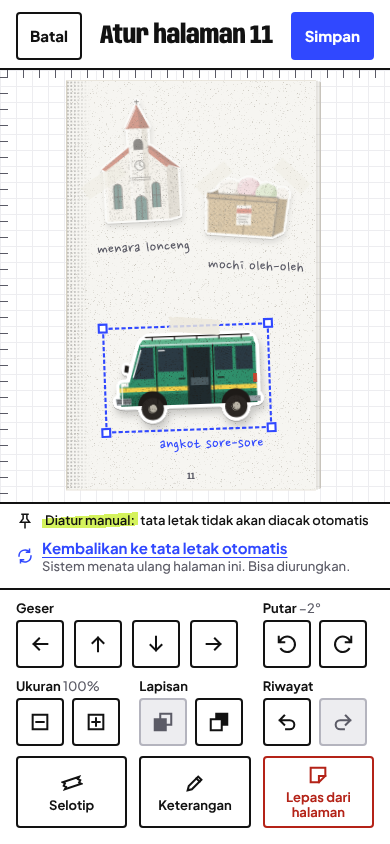
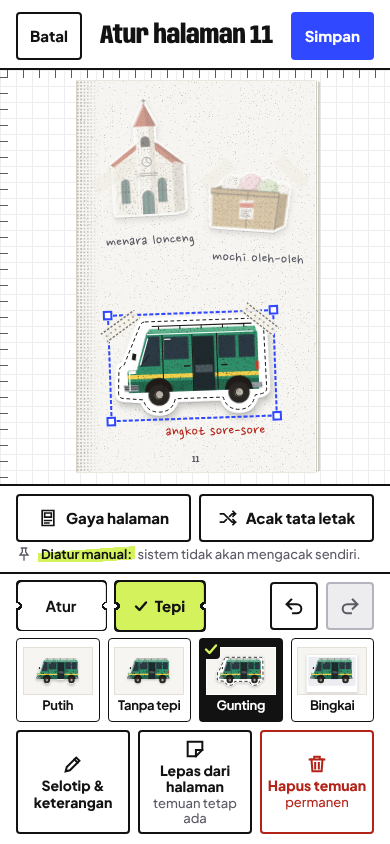
Mockup v5 editor diperbarui dari 3 riset; Q-022 cakupan opsi editor
Claude-Session: https://claude.ai/code/session_01RwujPoypsKpkKnPt9b6a3g

Changed region(s): [[0.0, 0.0924, 1.0, 1.0], [0.2462, 0.1232, 0.4923, 0.3081], [0.0, 0.5545, 0.0308, 0.5853]]

diff --git a/docs/pertanyaan.md b/docs/pertanyaan.md
@@ -14,6 +14,7 @@
 | Q-019 | Warna untuk 4 kategori yang belum punya warna (Minuman, Hewan, Barang, Lainnya)? Usulan v5: `#5ED1E0`, `#C7A6FF`, `#E0C39A`, `#D6D6DC` (tinta di atasnya 9,2–13,0:1). Karena warna kategori < 3:1 terhadap putih, label kategori wajib bergaris tinta dan selalu ikon + teks | `data/categories.json` punya 9 kategori (K-020), sistem v4 baru mewarnai 5 | K-020, Q-017 |
 | Q-020 | Batas atur manual stiker di editor halaman dan kolom baru `Placement`? Usulan mockup v5: putar 2° per ketukan dengan batas ±15° (±4° tetap untuk tata letak otomatis), ukuran 60–150% dari slot template, geser 4 dp per ketukan dengan minimal 50% stiker di dalam halaman, urungkan minimal 20 langkah sampai Simpan; kolom baru `tapeStyle` (`none`/`oneCorner`/`twoCorners`/`top`) dan `noteInk` (`cobalt`/`ink`); "Lepas dari halaman" menghapus `Placement`, `Finding` tetap (ke mana temuan itu tampil belum diputuskan) | Editor halaman (K-005) butuh batas agar halaman tetap rapi; kolom baru menyentuh glosarium (K-014) dan skema drift/Supabase | K-005, K-014 |
 | Q-021 | Isi `Book.cover` untuk MVP? Usulan mockup v5: `templateId` (4 template: Kobalt, Tinta, Kliping, Karcis), judul maksimal 24 karakter dengan aturan perkecil/turun baris per template, dan maksimal 3 stiker berurutan (urutan pilih = posisi). Editor sampul lanjutan (geser bebas) tetap ditunda (spesifikasi §8) | Spesifikasi §4.5 hanya menyebut "template + nama + stiker"; `templateId` belum ada di glosarium | Spesifikasi §4.5, §8, K-014 |
+| Q-022 | Opsi editor v5 hasil riset 18 Nov (mana yang masuk MVP)? (a) **Sampul**: 8 template (Kobalt, Koran, Jendela, Peta trayek, Perangko, Tinta, Kliping, Karcis) dengan jumlah stiker 1–3 per template, dan **set hiasan** buatan sendiri (Karcis, Pos, Coretan; 12 hiasan) yang posisinya diatur template, di luar spesifikasi §4.5. (b) **Halaman**: 4 tepi stiker (putih, tanpa, gunting, bingkai), 6 tinta keterangan (Tinta, Kobalt, Sepia `#6B4226`, Merah cap `#B42318`, Magenta `#C2185B`, Hijau `#276B4A`), 6 motif selotip, 4 kertas latar, 6 gaya halaman siap pakai, tombol Acak tata letak (hanya dipicu pengguna, halaman tetap `isManuallyArranged`, bisa diurungkan; perlu tafsiran K-005). (c) "Hapus temuan" permanen termasuk cutout di cloud, terpisah dari "Lepas dari halaman". (d) **Rapikan potongan**: mode Kuas (wajib), Gunting poligon (bagus), Tepi dengan gaya Tanpa/Die-cut (wajib), Guntingan (bagus), Zigzag/Sobek (nanti); gaya tepi bawaan belum dipilih (Die-cut atau Guntingan). Istilah baru untuk glosarium: tepi stiker `edgeStyle`/`edgeWidth`, motif selotip, tinta keterangan, kertas latar, gaya halaman, stiker hiasan, `templateId` | Menentukan cakupan MVP editor dan skema data `Placement`/`Book.cover`; menyentuh K-005, K-014, K-024/K-030 (hiasan buatan sendiri, dicatat seperti suara), spesifikasi §4.3, §4.5, §8 | K-005, K-014, Q-020, Q-021 |
 
 ## Terjawab
 

diff --git a/docs/desain/usulan-v5-karcis-kliping.md b/docs/desain/usulan-v5-karcis-kliping.md
@@ -1,7 +1,7 @@
 # Laporan desainer-visual: bedah v4 "Pop Kota" dan spesifikasi v5 "Karcis & Kliping"
 
 > Ditulis: 18 Nov 2026 · Agen: `desainer-visual` · Status isi: **usulan** untuk Q-017. Tidak ada file repo yang diubah.
-> Lampiran di `docs/desain/usulan-v5/`: `gereja.svg` (contoh gaya stiker), `cap.svg` (stempel kota), `kontras.py` (hitung kontras), `spesimen.png` dan `uji-gereja.png`, serta screenshot 26 layar v5 (`V5*.png`). Mockup hidup: https://claude.ai/artifact/Acc38ZrS9c64zx1VbA3MzE (halaman "v5").
+> Lampiran di `docs/desain/usulan-v5/`: `gereja.svg` (contoh gaya stiker), `cap.svg` (stempel kota), `kontras.py` (hitung kontras), `spesimen.png` dan `uji-gereja.png`, serta screenshot 30 layar v5 (`V5*.png`). Mockup hidup: https://claude.ai/artifact/Acc38ZrS9c64zx1VbA3MzE (halaman "v5").
 > Terakhir diverifikasi: 18 Nov 2026.
 
 Yang dipertahankan dari v4, sesuai permintaan pemilik: struktur Beranda (hero kota, aksi Potret, misi, temuan terbaru), navigasi 5 tab berlabel, warna terang dan berani (Kobalt, Lime, warna kategori), dan cutout sebagai stiker.
